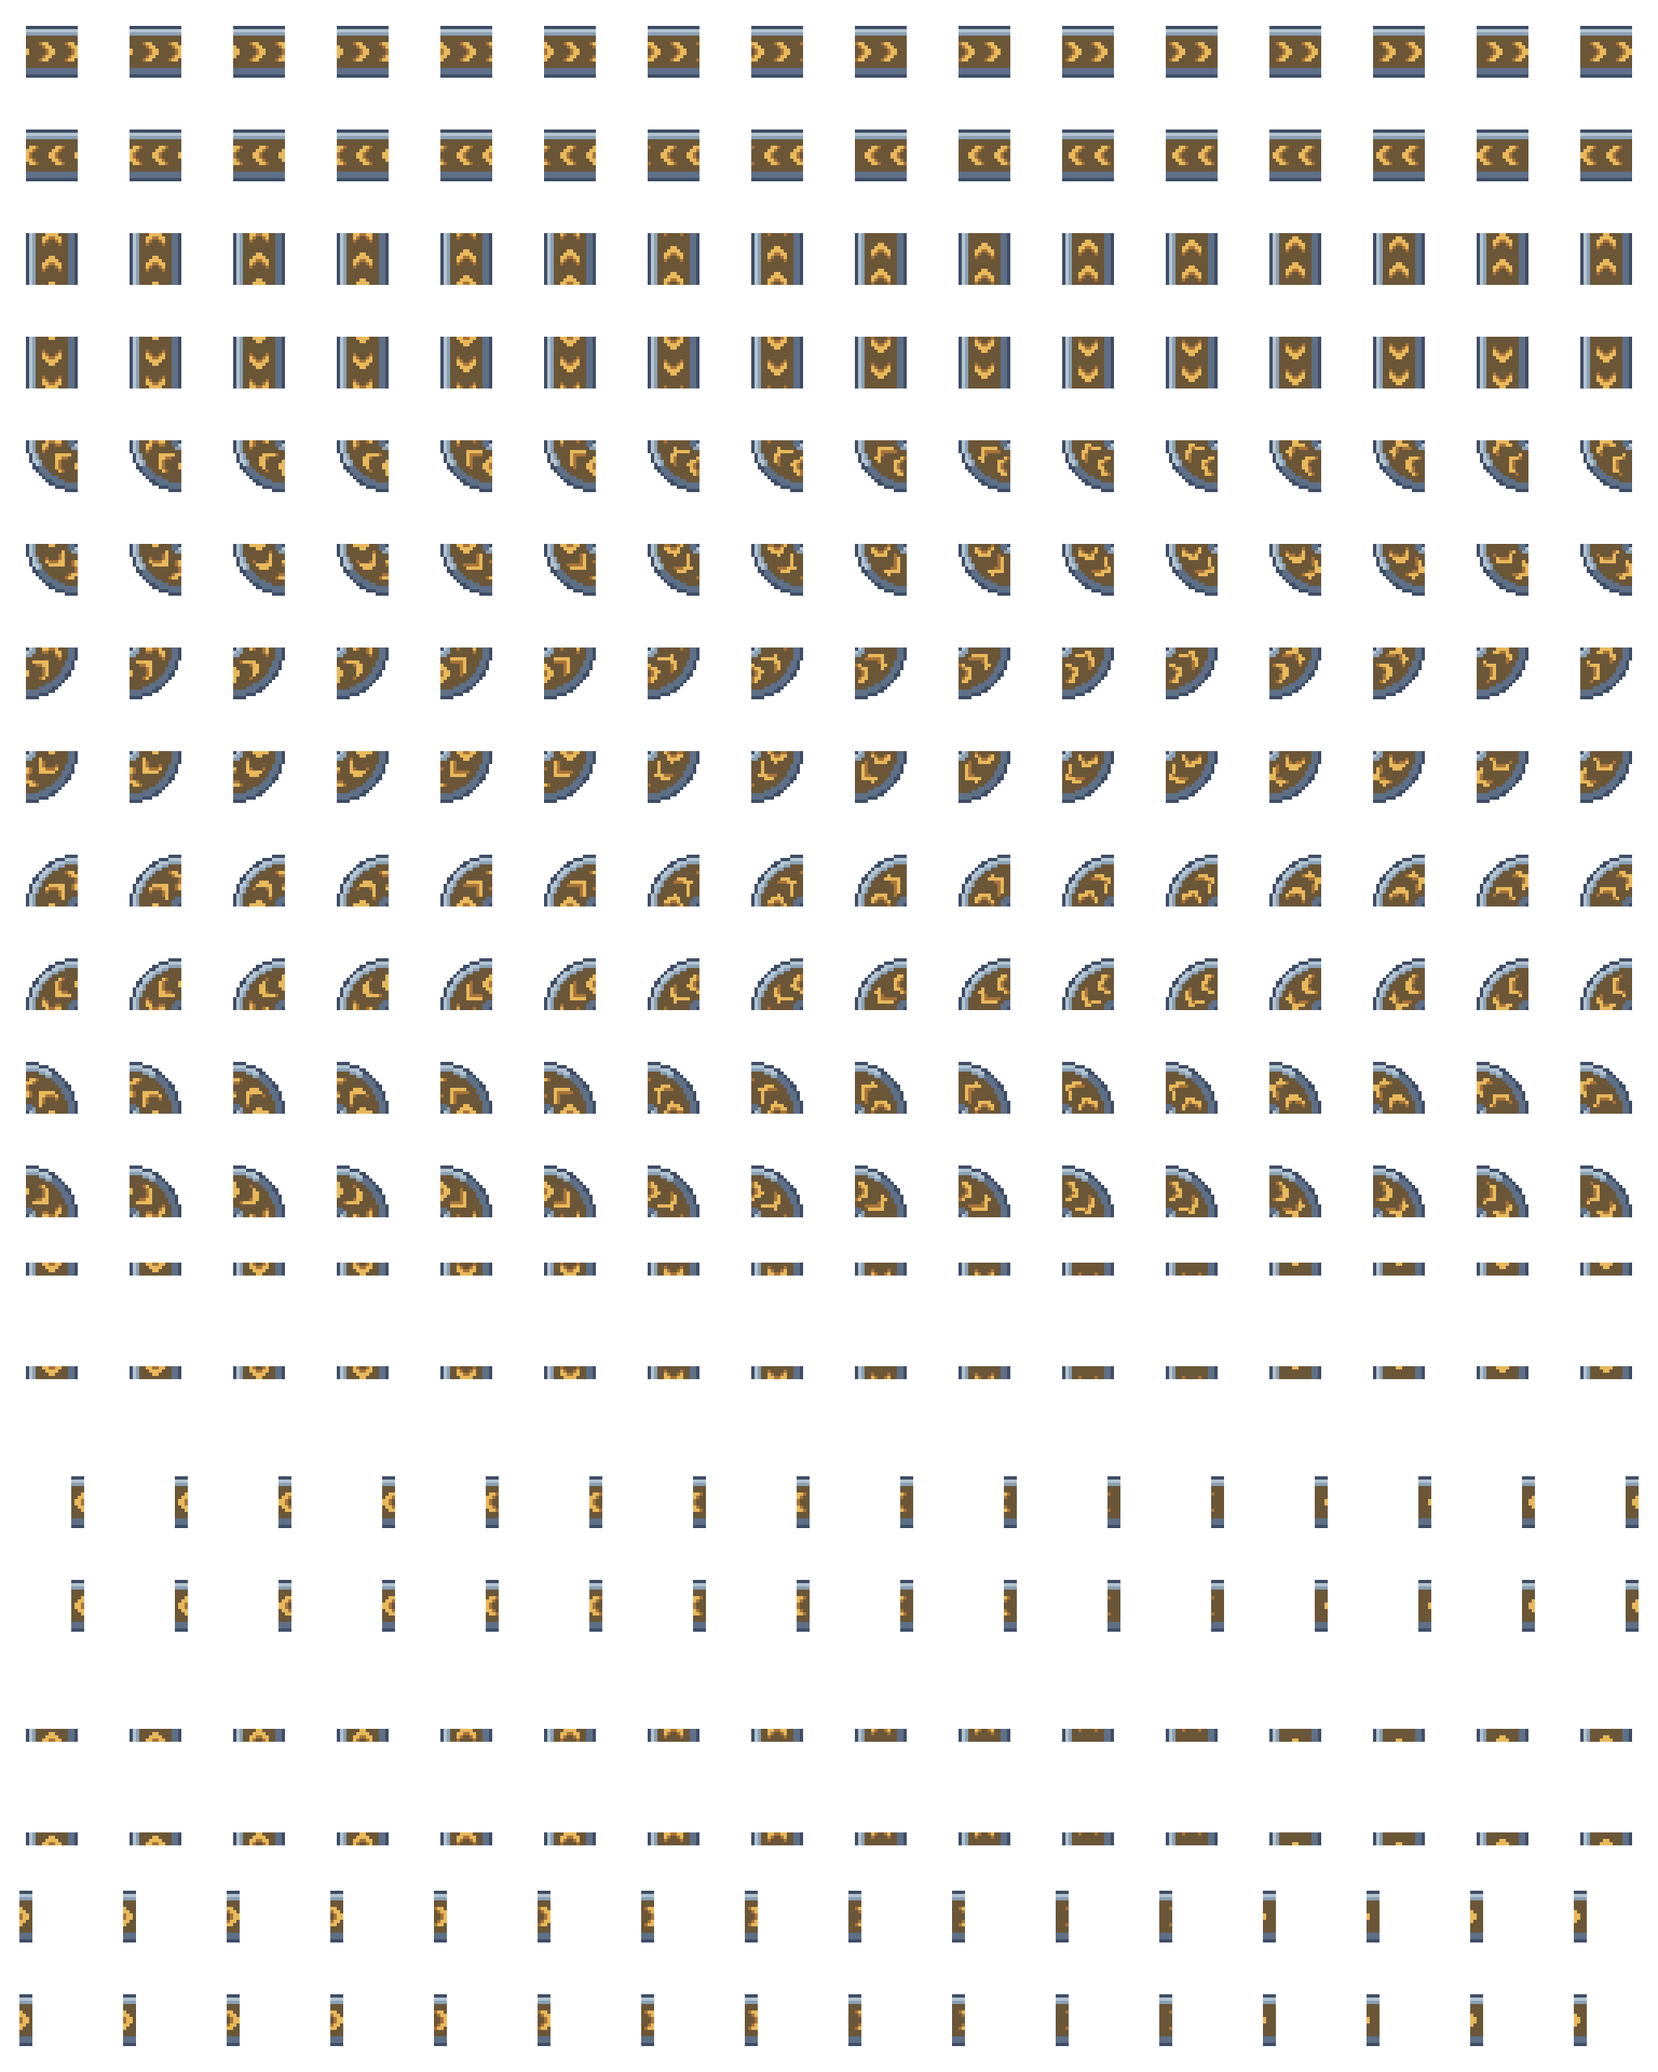
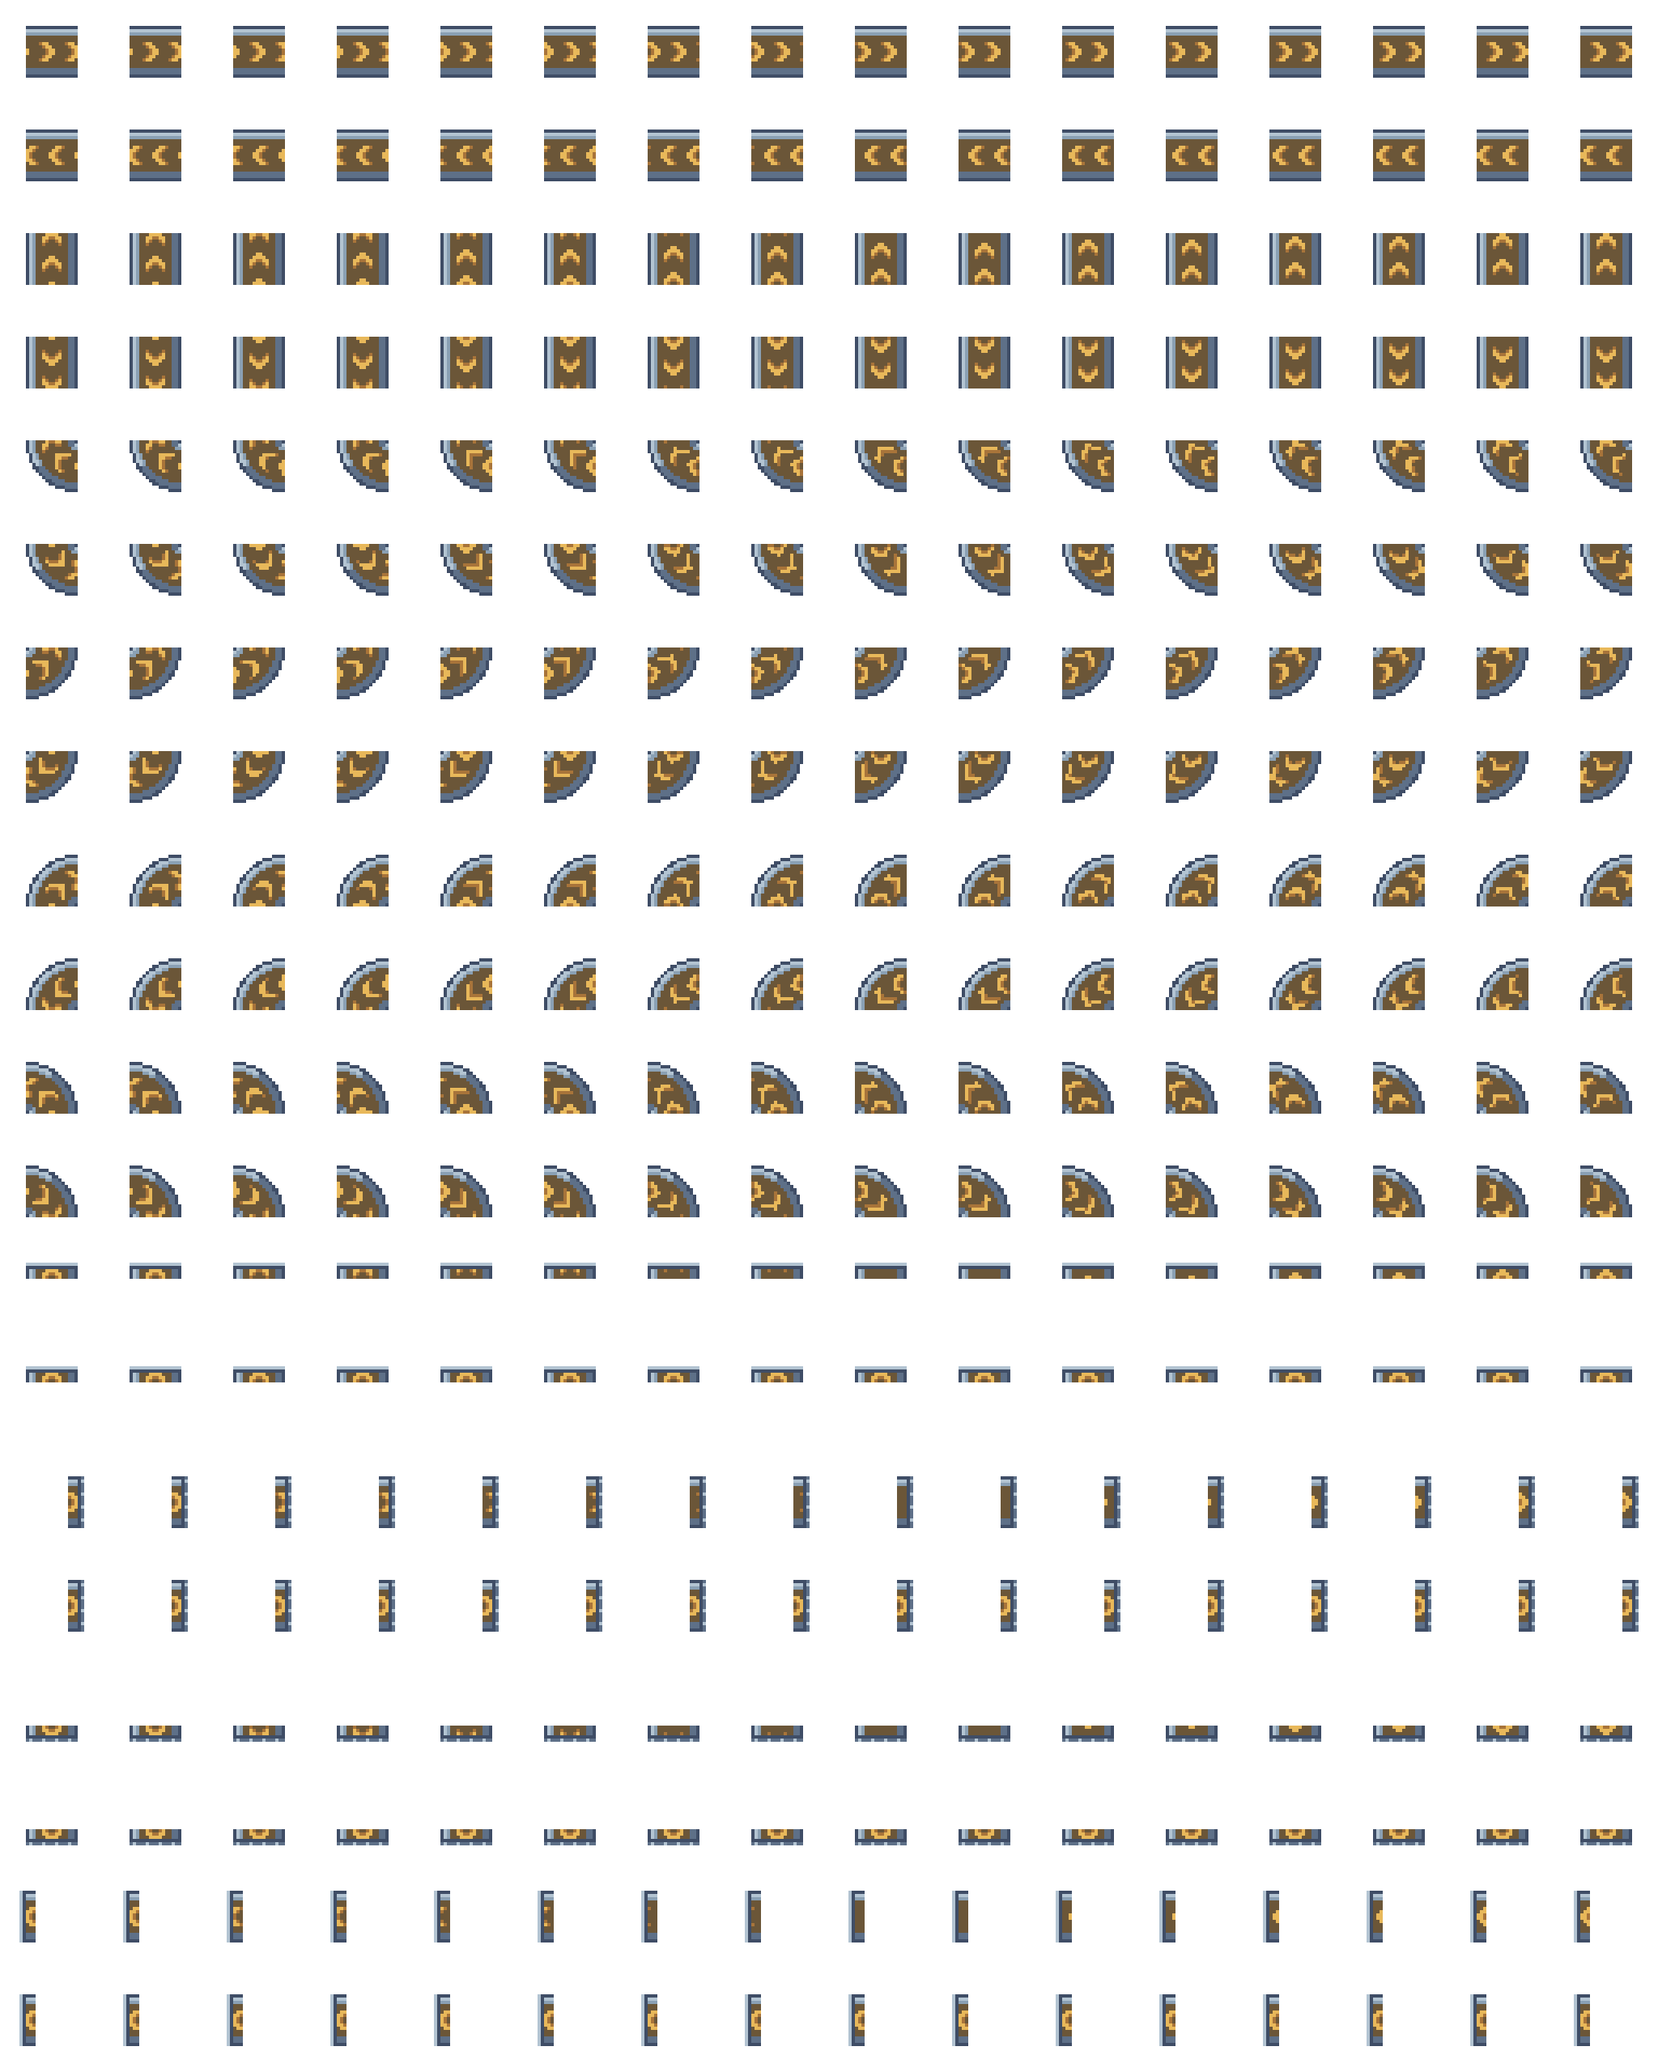
Pixel : souterrains et bouts de ligne repris avec les conventions du mod cartoon
Capot sur la moitié aval (entrée) ou amont (sortie) de la case ; la cellule sortie est celle de la direction
opposée ; bouts de ligne avec rouleau, chevrons dans le sens du flux, rangées paires animées et impaires fixes.

diff --git a/pixel/pillow/belt_structures.py b/pixel/pillow/belt_structures.py
@@ -76,14 +76,16 @@ def add_face(img, mask):
 
 
 # ---------------------------------------------------------------- souterrain
-# Comme dans Factorio, le capot couvre toute la case : une voûte (demi-cylindre couché dans le sens du flux) dont la
-# plaque porte des chevrons, avec un anneau d'acier à rivets à chaque bout. Le bout enterré est fermé ; du côté du
-# tapis, une porte sombre laisse voir le chevron du tapis qui entre ou qui sort (entrée et sortie sont des miroirs).
-# La plaque a la teinte vive du convoyeur du même niveau, les chevrons sa teinte foncée.
-UG_LEN = 16        # longueur du capot dans le sens du flux : bout fermé 3, voûte 9, porte 4 (px)
-UG_WIDTH = 16      # largeur en travers (px)
-FACE = 3           # hauteur de la face avant (px)
-DOOR_HALF = (0, 6.5, 5.5, 4.5)       # demi-largeur de la porte selon la profondeur depuis le bord (px)
+# Conventions vérifiées en jeu avec le mod cartoon (cartoon/blender/underground.py) :
+# - le capot couvre la moitié aval de la case pour une entrée (le tapis y plonge) et la moitié amont pour une sortie ;
+# - la cellule « sortie » de la colonne d est celle d'une sortie dont le flux va vers la direction opposée à d ;
+# - les rangées 2 et 3 (chargement par le côté, est et ouest) reprennent les rangées 0 et 1 ;
+# - les pièces « patch » restent vides.
+# Le capot est une voûte à chevrons, de la teinte vive du convoyeur du même niveau : haute à la bouche (côté tapis, où
+# l'on voit une ouverture sombre), plus basse vers le bout enterré où le toit rejoint le sol.
+OPPOSITE = {"N": "S", "S": "N", "E": "W", "W": "E"}
+HOOD_LEN = 10              # longueur du capot dans le sens du flux (px)
+FACE = 4                   # hauteur de la face avant (px)
 
 
 def tile_coords(direction, x, y):
@@ -97,67 +99,75 @@ def darken(c, f):
 
 
 def underground_cell(direction, entering, tier):
-    """Cellule de 48 x 48 px d'art ; la case occupe [16, 32[."""
+    """Cellule de 48 x 48 px d'art ; la case occupe [16, 32[. `direction` : sens du flux ; `entering` : entrée ou sortie."""
     light, dark = BELT[tier]
     base = belt.BASE[tier]
     horiz = direction in "EW"
+    fl = FLOW[direction]
+    mouth_n = (-fl[0], -fl[1]) if entering else fl             # normale de la bouche (vers le tapis)
+    s_lo, s_hi = (7, 7 + HOOD_LEN) if entering else (-1, -1 + HOOD_LEN)
     img = Image.new("RGBA", (48, 48), (0, 0, 0, 0))
     hood = Image.new("L", (48, 48), 0)
-    fl = FLOW[direction]
-    out_n = fl if entering else (-fl[0], -fl[1])        # normale du bout enterré
-    in_n = (-out_n[0], -out_n[1])                       # normale du bout côté tapis
-    for ty in range(belt.T):
-        for tx in range(belt.T):
-            u, lat = tile_coords(direction, tx, ty)
-            d_ug = (UG_LEN - u) if entering else u        # distance au bout enterré (0 = au bord)
-            d_belt = UG_LEN - d_ug
-            lat_abs = (ty + 0.5 - 8) if horiz else (tx + 0.5 - 8)    # axe transversal absolu : lumière en haut à gauche
+    for ty in range(-3, belt.T + 3):
+        for tx in range(-3, belt.T + 3):
+            s, lat = tile_coords(direction, tx, ty)
+            if not (s_lo <= s < s_hi and abs(lat) < 8):
+                continue
+            dm = (s - s_lo) if entering else (s_hi - s)          # distance à la bouche : 0 à la bouche, HOOD_LEN au bout enterré
+            u = s - s_lo
+            lat_abs = (ty + 0.5 - 8) if horiz else (tx + 0.5 - 8)
             x, y = tx + 16, ty + 16
             hood.putpixel((x, y), 255)
             if abs(lat) > 7:
-                c = P["steel_dark"]                                   # contour des flancs
-            elif d_ug < 3:                                            # bout fermé : anneau plein à rivets
-                c = belt.shade(d_ug, out_n)
-                if d_ug >= 1 and abs(lat) in (1.5, 3.5, 5.5):
-                    c = P["steel_light"]
-            elif d_belt < 4:                                          # côté tapis : lèvre puis porte
-                k = int(d_belt)
-                if k == 0:
-                    c = belt.shade(0, in_n)
-                elif abs(lat) >= DOOR_HALF[k]:
-                    c = belt.shade(k, in_n) if abs(lat) < DOOR_HALF[k] + 1 else P["steel"]   # piédroits
-                else:
-                    f_ = (0.85, 0.6, 0.35)[k - 1]                     # de plus en plus sombre vers l'intérieur
-                    u_tip = 3.5 if entering else UG_LEN - 3.5          # pointe du chevron, dans le sens du flux
-                    chev = abs(lat) < 3.2 and int(u) == int(u_tip - abs(lat) * 0.7)
-                    c = darken(light, max(f_, 0.6)) if chev else darken(base, f_)
-            elif abs(lat) > 6:                                        # bords de la voûte : arêtes éclairées / ombrées
-                c = P["steel_light"] if lat_abs < 0 else P["steel"]
+                c = P["steel_dark"]                               # contour des flancs
+            elif dm < 1.2:
+                c = belt.shade(dm, mouth_n)                        # linteau de la bouche
+            elif dm >= HOOD_LEN - 1.5:
+                c = belt.shade(HOOD_LEN - dm, (-mouth_n[0], -mouth_n[1]))    # mur du bout enterré, bas
+            elif abs(lat) > 6:
+                c = P["steel_light"] if lat_abs < 0 else P["steel"]   # bords de la voûte
             else:
-                # voûte : lumineuse du côté de la lumière, plus sombre du côté opposé
-                shade = 1.0 if lat_abs < -3 else 0.9 if lat_abs < 2 else 0.78 if lat_abs < 5 else 0.62
-                ph = (u + abs(lat) * 0.5) % 5
-                c = darken(dark, shade) if ph < 2 else darken(light, shade)
+                # voûte : plus sombre vers le bout enterré (le toit descend), plus claire côté lumière
+                slope = 1.0 - 0.16 * dm / HOOD_LEN
+                side = 1.0 if lat_abs < -3 else 0.92 if lat_abs < 2 else 0.8 if lat_abs < 5 else 0.68
+                ph = (u + abs(lat) * 0.5) % 3.4
+                c = darken(dark, 0.7 * slope * side) if ph < 1.3 else darken(light, slope * side)
             img.putpixel((x, y), c)
-    # hauteur : face avant sur FACE px sous le bord sud du capot
+    # face avant sur FACE px sous le bord sud ; si la bouche regarde le sud, on y voit l'ouverture du tunnel
+    mouth_south = mouth_n == (0, 1)
     src = hood.copy()
-    for y in range(47):
+    for y in range(48 - FACE - 1):
         for x in range(48):
             if src.getpixel((x, y)) and not src.getpixel((x, y + 1)):
+                lat_x = x + 0.5 - 24
                 for k in range(1, FACE + 1):
-                    if y + k < 48 and not src.getpixel((x, y + k)):
-                        img.putpixel((x, y + k), P["steel"] if k == 1 else P["steel_dark"])
-                        hood.putpixel((x, y + k), 255)
+                    if src.getpixel((x, y + k)):
+                        continue
+                    if mouth_south:
+                        if k == 1:
+                            c = P["steel_light"]                           # linteau
+                        elif abs(lat_x) >= 5.5:
+                            c = P["steel"] if k < FACE else P["steel_dark"]   # piédroits
+                        else:
+                            f_ = (0, 0.8, 0.5, 0.3)[min(k - 1, 3)]          # tunnel de plus en plus sombre
+                            chev = abs(lat_x) < 2.6 and k == 2 and int(abs(lat_x)) == (0 if entering else 1)
+                            c = darken(light, 0.9) if chev else darken(base, f_)
+                    else:
+                        c = P["steel"] if k == 1 else P["steel_dark"]
+                    img.putpixel((x, y + k), c)
+                    hood.putpixel((x, y + k), 255)
     return with_shadow(img, hood)
 
 
 def underground_sheet(tier):
+    cells = {(d, e): underground_cell(d, e, tier) for d in "NESW" for e in (False, True)}
     out = Image.new("RGBA", (48 * 4, 48 * 4), (0, 0, 0, 0))
-    for col, direction in enumerate("NESW"):
-        for row, entering in enumerate((False, True, False, True)):
-            if row >= 2 and direction in "NS":
-                continue
-            out.alpha_composite(underground_cell(direction, entering, tier), (48 * col, 48 * row))
+    for col, d in enumerate("NESW"):
+        for row, entering in ((0, False), (1, True)):
+            src = cells[(d, True)] if entering else cells[(OPPOSITE[d], False)]
+            out.alpha_composite(src, (48 * col, 48 * row))
+            if d in "EW":                                 # chargement par le côté : mêmes images
+                out.alpha_composite(src, (48 * col, 48 * (row + 2)))
     return out
 
 

diff --git a/pixel/pillow/belt.py b/pixel/pillow/belt.py
@@ -102,24 +102,34 @@ def piece(row, frame, tier):
     return img
 
 
-# Capuchons (rangées 12 à 19) : la partie du tapis qui dépasse du capot d'un souterrain, au bord arrière de la case,
-# avec le chevron qui avance (animé comme le tapis). Deux rangées par bord (début / fin), même dessin.
-CAP_FLOW = [(0, 1), (0, 1), (-1, 0), (-1, 0), (0, -1), (0, -1), (1, 0), (1, 0)]     # sud, ouest, nord, est
-CAP_EDGE = [(0, -2), (0, -2), (14, 0), (14, 0), (0, 14), (0, 14), (-2, 0), (-2, 0)]  # début du bandeau (x, y) dans la case
+# Bouts de ligne (rangées 12 à 19), comme dans le mod cartoon : une bande de tapis au bord aval de la case, prolongée
+# d'un rouleau en acier qui dépasse de 2 px. Les chevrons avancent vers l'extérieur (sens du flux) ; les rangées paires
+# (12, 14, 16, 18) sont animées, les impaires fixes. Rangées : haut (nord), droite (est), bas (sud), gauche (ouest).
+CAP_FLOW = [(0, -1), (0, -1), (1, 0), (1, 0), (0, 1), (0, 1), (-1, 0), (-1, 0)]
 CAP_PAD = 2
+CAP_BAND = 3          # largeur de la bande de tapis, dans la case
+CAP_ROLLER = 2        # largeur du rouleau, hors de la case
 
 
 def cap_piece(row, frame, tier):
     """Image de 20 x 20 : la case plus 2 px de marge ; (i, j) correspond au pixel (i - 2, j - 2) de la case."""
     flow = CAP_FLOW[row - 12]
-    ex, ey = CAP_EDGE[row - 12]
+    off = (frame // 2) if row % 2 == 0 else 0
     img = Image.new("RGBA", (T + 2 * CAP_PAD, T + 2 * CAP_PAD), (0, 0, 0, 0))
-    horizontal = flow[0] == 0               # flux vertical : le bandeau est horizontal
-    for j in range(4):
-        for i in range(T):
-            x, y = (ex + i, ey + j) if horizontal else (ex + j, ey + i)
-            c = straight_pixel(x, y, flow, frame // 2, tier)
-            img.putpixel((x + CAP_PAD, y + CAP_PAD), c)
+    for y in range(-CAP_PAD, T + CAP_PAD):
+        for x in range(-CAP_PAD, T + CAP_PAD):
+            px, py = x + 0.5, y + 0.5
+            s = {(1, 0): px, (-1, 0): T - px, (0, -1): T - py, (0, 1): py}[flow]
+            across = py if flow[0] else px
+            if not 0 <= across < T:
+                continue
+            if T - CAP_BAND <= s < T:
+                img.putpixel((x + CAP_PAD, y + CAP_PAD), straight_pixel(x, y, flow, off, tier))
+            elif T <= s < T + CAP_ROLLER:
+                c = shade(s - T, flow)
+                if s - T >= 1 and int(across) % 4 == 1:
+                    c = P["steel_light"]                       # rivets du rouleau
+                img.putpixel((x + CAP_PAD, y + CAP_PAD), c)
     return img
 
 

diff --git a/pixel/STYLE.md b/pixel/STYLE.md
@@ -28,5 +28,6 @@ Référence pour tout sprite du mod pixel. Les couleurs vivent dans `pillow/pale
 - Voyant du moteur qui clignote : indique visuellement que la machine travaille. **[PROVISOIRE]**
 
 ## Structures de convoyeurs
-- Souterrain : refait sur le modèle de Factorio. Le capot couvre toute la case : voûte (demi-cylindre couché dans le sens du flux) à plaque de la teinte vive du convoyeur du même niveau et chevrons foncés qui épousent la courbure, anneau d'acier à rivets à chaque bout, face avant sombre de 3 px, ombre portée. Bout fermé côté enterré, porte sombre avec le chevron du tapis côté tapis : entrée et sortie sont des miroirs. Le bord arrière de la case porte un capuchon du tapis (rangées 12 à 19 de la planche) avec un chevron animé, dans les deux variantes début et fin. **[PROVISOIRE, à juger en jeu]**
+- Souterrain : mêmes conventions que le mod cartoon (vérifiées en jeu). Le capot couvre la moitié aval de la case pour une entrée et la moitié amont pour une sortie ; la cellule « sortie » d'une colonne contient le capot de la direction opposée ; rangées 2 et 3 = copies des rangées 0 et 1 pour l'est et l'ouest ; pièces « patch » inchangées. Voûte à plaque de la teinte vive du convoyeur du même niveau et chevrons foncés, bouche (linteau, ouverture sombre visible quand elle regarde le sud) côté tapis, bout enterré plus bas. **[PROVISOIRE, à juger en jeu]**
+- Bouts de ligne des convoyeurs (rangées 12 à 19 de la planche) : bande de tapis au bord aval de la case avec un rouleau d'acier qui dépasse de 2 px. Les chevrons avancent dans le sens du flux ; rangées paires (12, 14, 16, 18) animées, impaires fixes. **[VALIDÉ par le mod cartoon]**
 - Répartiteur : poteaux d'extrémité, cloison avec nez diviseur côté entrée, rail à trois engrenages (acier, moyeu orange) qui tournent, capots à chevrons de la couleur du niveau côté sortie, deux voyants qui clignotent en alternance. **[PROVISOIRE]**
